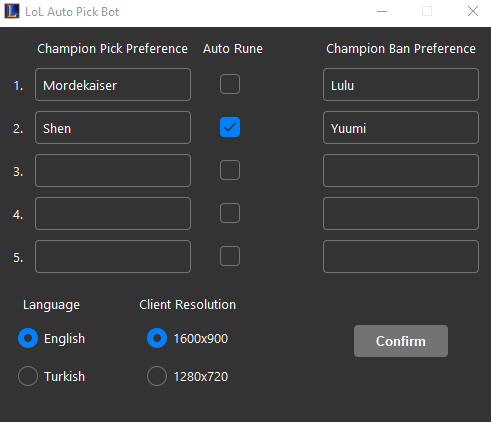
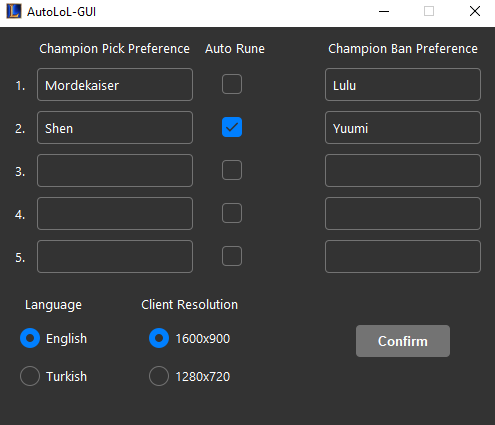
app name changed

diff --git a/bot.py b/bot.py
@@ -91,7 +91,7 @@ def GUI_Func():
 
     pickGUI_root = tk.Tk()
     pickGUI_root.geometry('500x400')
-    pickGUI_root.title('LoL Auto Pick Bot')
+    pickGUI_root.title('AutoLoL-GUI')
     pickGUI_root.resizable(False,False)
     pickGUI_root.iconbitmap(icon)
     pickGUI_root.tk.call("source", "data\\azure.tcl")
